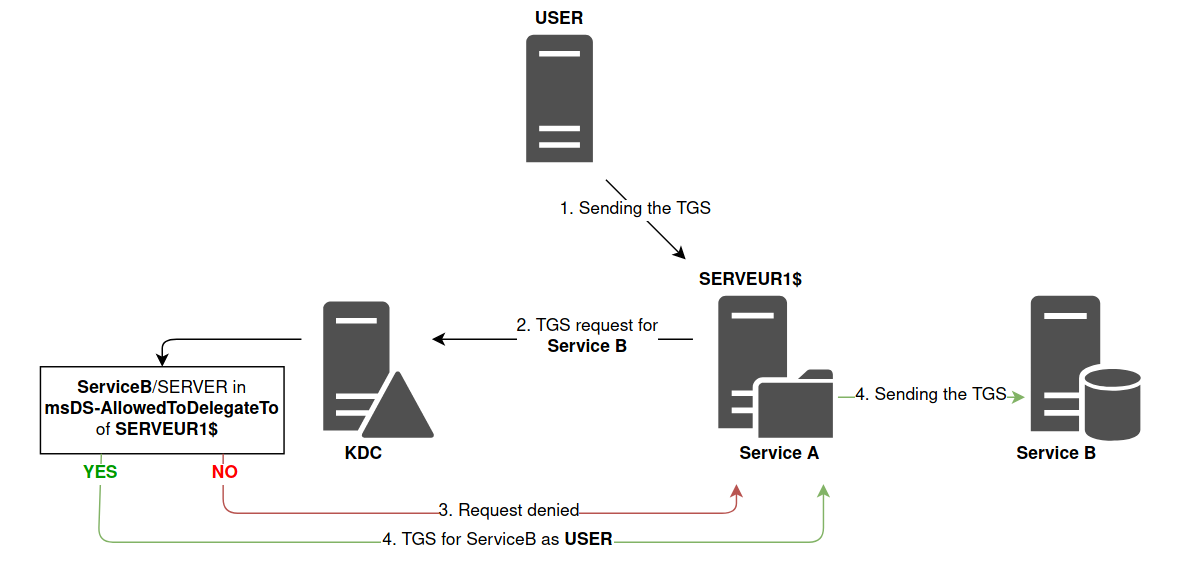
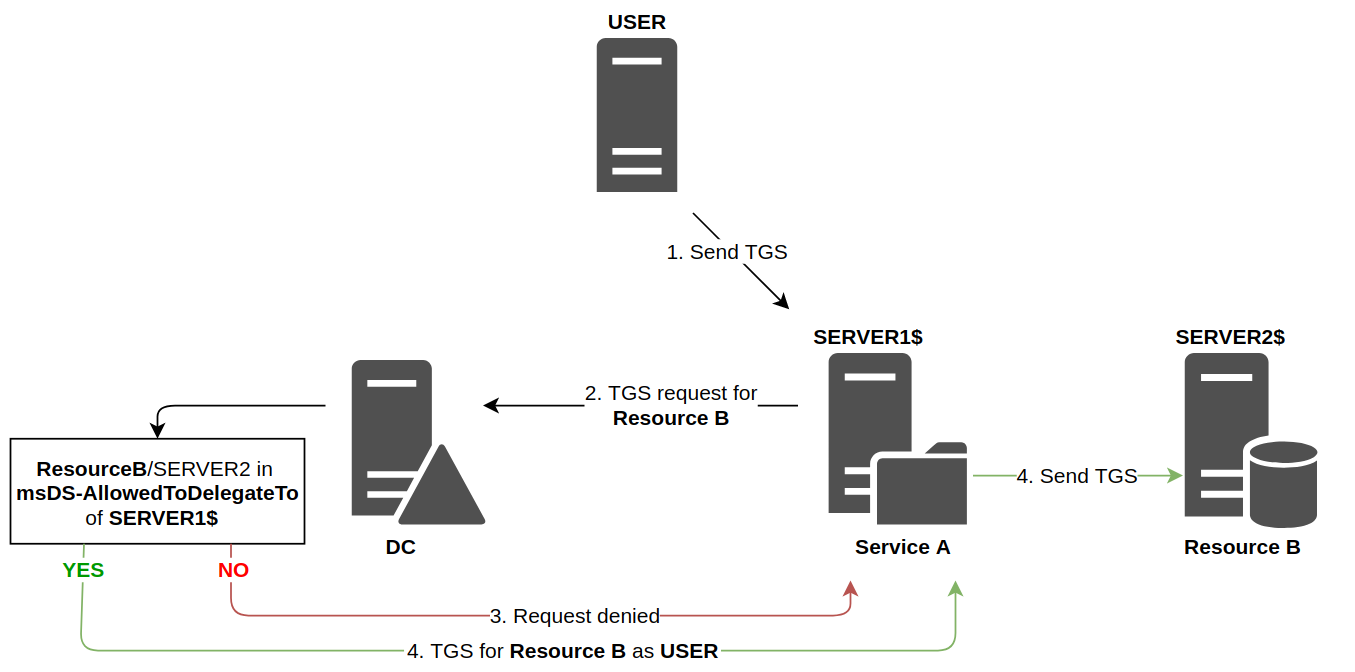
New article - Kerberos delegation

diff --git a/_posts/2019-03-30-unconstrained-delegation.md b/_posts/2019-03-30-unconstrained-delegation.md
@@ -1,0 +1,199 @@
+---
+title: "Kerberos Delegation"
+date: 2020-04-18 12:17:22
+author: "Pixis"
+layout: post
+permalink: /constrained-unconstrained-delegation/
+disqus_identifier: 0000-0000-0000-00ab
+cover: assets/uploads/2019/02/delegation_banner.png
+description: "Within an Active Directory, services can be used by users. Sometimes these services need to contact others, on behalf of the user, like a web service might need to contact a file server. In order to allow a service to access another service on behalf of the user, a solution has been implemented (introduced in Windows Server 2000) to meet this need : Kerberos Delegation."
+tags:
+  - "Active Directory"
+  - Windows
+translation:
+  - fr
+---
+
+Within an Active Directory, services can be used by users. Sometimes these services need to contact others, on behalf of the user, like a web service might need to contact a file server. In order to allow a service to access another service **on behalf of the user**, a solution has been implemented (introduced in Windows Server 2000) to meet this need : **Kerberos Delegation.**
+
+<!--more-->
+
+## Delegation principle
+
+In order to understand what is Kerberos Delegation, let's take a concrete example. A web server with a nice interface allows a user to access his personal folder, hosted on a file server. We are in the following situation :
+
+[![Actual state](/assets/uploads/2019/02/webfsuser.png)](/assets/uploads/2019/02/webfsuser.png)
+
+The web server is front-end, and it's this web server that will fetch the information instead of the user on the file server in order to display the content of a file, for example.
+
+However, the web server does not know what belongs to the user on the file server. It is not his role to unpack the user's [PAC](/kerberos-silver-golden-tickets/#pac) to make a specific demand to the file server. This is where the **delegation**  comes in. This mechanism allows the web server to **impersonate** the user, and to authenticate on the user's behalf to the file server. Thus, from the file server's point of view, it is the user who makes the request. The file server will be able to reand and check user's rightsr, then send back the information to which this account has access. This is how the web server can then display this information in a nice interface back to the user.
+
+[![Impersonation](/assets/uploads/2019/02/impersonation.png)](/assets/uploads/2019/02/impersonation.png)
+
+## Constrained & Unconstrained Delegation
+
+The ability to relay credentials can be given to an account with at least one [SPN](/service-principal-name-spn) attribute set. It could be a computer account or a service account.
+
+Today, there are three ways to authorize a computer or service account to impersonate a user in order to communicate with one or more other service(s) : **Unconstrained Delegation**, **Constrained Delegation** and **Resource Based Constrained Delegation**.
+
+### Unconstrained Delegation
+
+With **Unconstrained Delegation**, the server or the service account that is granted this right is able to impersonate a user to authenticate to **any services** on **any host**.
+
+[![Unconstrained Delegation](/assets/uploads/2019/02/unconstrained_delegation_schema.png)](/assets/uploads/2019/02/unconstrained_delegation_schema.png)
+
+Here is an example, in my lab, of a machine that is in **Unconstrained Delegation** :
+
+[![Unconstrained Delegation](/assets/uploads/2019/02/unconstrained_delegation.png)](/assets/uploads/2019/02/unconstrained_delegation.png)
+
+It is historically the only choice there was when the delegation principle was introduced. But for obvious security reason, **Constrained Delegation** has been added.
+
+### Constrained Delegation
+
+If a computer or a service account has the **Constrained Delegation** flag set, a list of authorized services shall be associated to this flag. For example, in previous example (web server and file server), the web server will have the **Constrained Delegation** flag indicating that this account can only impersonate some users against `CIFS` service hosted by `SERVER01`, the file server.
+
+[![Constrained Delegation](/assets/uploads/2019/02/constrained_delegation_schema.png)](/assets/uploads/2019/02/constrained_delegation_schema.png)
+
+This list of allowed SPN is set on the relaying account, the computer account hosting the web server.. 
+
+In other words, the Domain Controller will read the SPN list on this account, and will decide: "This account is allowed to impersonate a user, so he can authenticate against one of these services on behalf of the user".
+
+In my lab, the web server is `WEB-SERVER-01` and the one with file sharing is `WEB-SERVER-02`. So here is what the list of services for which `WEB-SERVER-01` can pretend  to be the user looks like :
+
+[![Delegation CIFS](/assets/uploads/2019/02/delegation_cifs.png)](/assets/uploads/2019/02/delegation_cifs.png)
+
+
+### Resource Based Constrained Delegation - RBCD
+
+Finally, we have the **Resource Based Constrained Delegation** (RBCD) case. Introduced with Windows Server 2012, this solution allows to overcome some problems related to the **Constrained Delegation** (Responsibility, inter-domains delegation, ...). Without going into too much details, the delegation responsibility is moved. Whereas in **Constrained Delegation**, it's the relaying server that holds the list of allowed target services, in the case of **Resource Based Constrained Delegation**, it's the resources (or services) that have a list of accounts they trust for delegation. Thus, the diagram is as follows :
+
+[![Resource Based Constrained Delegation](/assets/uploads/2019/02/resource_based_constrained_delegation_schema.png)](/assets/uploads/2019/02/resource_based_constrained_delegation_schema.png)
+
+The responsibility is shifted, it's at the level of the resource that receives the delegated authentications that the information of whether or not the delegation is accepted is found.
+
+In other words, it's the end resource that says "I allow this list of account [...] to authenticate to me on behalf of someone else".
+
+## Technical details
+
+Now that the high-level behavior is understood (at least I hope so), let's go into a little more detail about this process. Concretely, how can a machine or an account can pretend to be a user when using a resource ? That's what we are going to see now. Details between every different techniques are relatively different, that's why each of them will be explained separately. Stay close on your seat, it's gonna get dirty.
+
+### Unconstrained Delegation
+
+As seen before, in this case, the server or the service account can authenticate on behalf of the user to any other services. For this to be possible, two prerequisites are required :
+
+* The first one is that the account that wants to delegate an authentication has the `TRUSTED_FOR_DELEGATION` flag in his [UAC - User Account Control](https://docs.microsoft.com/en-us/windows/win32/adschema/a-useraccountcontrol?redirectedfrom=MSDN) flags. In order to set this flag, you need to have the `SeEnableDelegationPrivilege` right, which is usually only available for domain administrators. Here is how the flag is set on the account (machine or service account):
+
+[![Unconstrained Delegation](/assets/uploads/2019/02/unconstrained_delegation.png)](/assets/uploads/2019/02/unconstrained_delegation.png)
+
+Once set, we can list UAC flags and check that `TRUSTED_FOR_DELEGATION` has been set.
+
+[![Unconstrained Delegation UAC](/assets/uploads/2020/04/UAC_UD.png)](/assets/uploads/2020/04/UAC_UD.png)
+
+* The second one is that the user account which will be relayed is effectively "relayable". To **disable** relaying capabilities on an account, [NOT_DELEGATED](https://docs.microsoft.com/en-us/windows/desktop/api/iads/ne-iads-ads_user_flag) flag is set. By default, no account on the AD has this flag set, so they are all "relayable".
+
+[![Not delegated flag unset](/assets/uploads/2020/04/UAC_user_not_delegated.png)](/assets/uploads/2020/04/UAC_user_not_delegated.png)
+
+Concretely, during exchanges with the Domain Controller as described in the [Kerberos in Active Directory](/kerberos) article, when the user asks for a TGS ([KRB_TGS_REQ](/kerberos/#krb_tgs_req)), he will specify the [SPN](/service-principal-name-spn) of the service he wants to use. It is at this point that the Domain Controller will look for the two prerequisites :
+
+* Is the `TRUSTED_FOR_DELEGATION` flag set in the attributes of the account associated to the [SPN](/service-principal-name-spn).
+* Is the `NOT_DELEGATED` flag **not** set for the requesting user.
+
+If both prerequisites are met, then the Domain Controller will respond to the user with a [KRB_TGS_REQ](/kerberos/#krb_tgs_req) containing standard information, but it will also contains a **copy of the user's TGT** in his response, and a new associated session key.
+
+[![TGT Copy](/assets/uploads/2019/02/cop_tgt.png)](/assets/uploads/2019/02/cop_tgt.png)
+
+Once in possession of these elements, the user will continue the classic process by sending a request to the service ([KRB_AP_REQ](/kerberos/#krb_ap_req)) by sending the TGS and an authenticator. The service will be able to decrypt the content of the TGS, verify the user's identity by decrypting the authenticator, but above all it will be able to retrieve the copy of the TGT and the associated session key, in order to pretend to be the user at the Domain Controller.
+
+[![TGT Memory](/assets/uploads/2019/02/tgt_memory.png)](/assets/uploads/2019/02/tgt_memory.png)
+
+Now in possession of a copy of the user's TGT and a valid session key, the service can authenticate to any other service on the user's behalf by requesting the TGS from the Domain Controller, by providing this TGT and by encrypting an authenticator with the session key. It's the **Unconstrained Delegation** principle.
+
+Here is a summary diagram :
+
+[![Unconstrained Delegation Detailed](/assets/uploads/2019/02/unconstrained_delegation_detailed.png)](/assets/uploads/2019/02/unconstrained_delegation_detailed.png)
+
+
+### Constrained Delegation
+
+For the **Constrained Delegation**, a list of [SPN](/service-principal-name-spn) or of authorized accounts will be provided to indicate the services/accounts accepted for the delegation. Therefore, the process is not the same. The service involved will not be in possession of the user's TGT, otherwise there is no way to control service's authentication. A different mechanism is used.
+
+Let's consider the case where the user authenticate to `Service A` and then this `Service A` has to impersonate the user to access `Resource B`.
+
+The user makes a TGS request, then sends it to `Service A`. Since this service needs to access `Resource B` as the user, it will request a TGS to the Domain Controller on behalf of the user. This request is governed by the [S4U2Proxy](https://docs.microsoft.com/en-us/openspecs/windows_protocols/ms-sfu/bde93b0e-f3c9-4ddf-9f44-e1453be7af5a) extension. To tell the Domain Controller it wants to authenticate on behalf of someone else, two attributes will be defined in the [KRB_TGS_REQ](/kerberos/#krb_tgs_req) ticket request:
+
+* The field `additional-tickets`, usually empty, must contain the user's TGS (given that the `NOT_DELEGATED` flag is **not** set for the requesting user. If that was the case, the user's TGS would **not** be `forwardable`, and the Domain Controller would not accept it in the rest of the process)
+* The [cname-in-addl-tkt](https://docs.microsoft.com/en-us/openspecs/windows_protocols/ms-sfu/17b9af82-d45a-437d-a05c-79547fe969f5) flag, which should be set to indicate to the Domain Controller that it should not use the server information, but the ticket information in `additional-tickets`, i.e. the information of the user the server wants to pretend to be.
+
+It is during this request that the Domain Controller, upon seeing this information, will verify that `Service A` has the right to authenticate to `Resource B` on behalf of the user.
+
+#### Constrained Delegation - Classique
+
+In the classic **Constrained Delegation** case (when delegation information is located in `Service A`), this information is found in the [msDS-AllowedToDelegateTo](https://docs.microsoft.com/en-us/openspecs/windows_protocols/ms-ada2/86261ca1-154c-41fb-8e5f-c6446e77daaa) attribute **of the requesting account**, thus of `Service A`. This attribute specifies the list of authorized [SPN](/service-principal-name-spn) for the delegation.
+
+[![Delegation CIFS](/assets/uploads/2019/02/delegation_cifs.png)](/assets/uploads/2019/02/delegation_cifs.png)
+
+For example here the `msDS-AllowedToDelegateTo` attribute will contain `cifs/WEB-SERVER-02`.
+
+[![allowedToDelegateTo](/assets/uploads/2020/04/allowedToDelegateTo.png)](/assets/uploads/2020/04/allowedToDelegateTo.png)
+
+If the targeted [SPN](/service-principal-name-spn) is present, then the Domain Controller send back a valid TGS, with the name of the user, for the requested service. Here is a summary diagram :
+
+[![Constrained Delegation Detailed](/assets/uploads/2019/02/constrained_delegation_schema_detailed.png)](/assets/uploads/2019/02/constrained_delegation_schema_detailed.png)
+
+
+#### Constrained Delegation - Resource Based
+
+This time, the Domain Controller will look at the attributes of **Resource B** (instead of `Service A`). It will check that the account associated with `Service A` is present in the [msDS-AllowedToActOnBehalfOfOtherIdentity](https://docs.microsoft.com/en-us/openspecs/windows_protocols/ms-ada2/cea4ac11-a4b2-4f2d-84cc-aebb4a4ad405) attribute of the account linked to `Resource B`.
+
+In order to set up RBCD on a resource, we need to use powershell.
+
+[![Set RBCD](/assets/uploads/2020/04/set_rbcd.png)](/assets/uploads/2020/04/set_rbcd.png)
+
+`WEB-SERVER-01` is added to `WEB-SERVER-02` trusting list, so **msDS-AllowedToActOnBehalfOfOtherIdentity** is updated.
+
+Then, when a service wants to access a resource, here's how it works:
+
+[![Resource Based Constrained Delegation Detailed](/assets/uploads/2019/02/resource_based_constrained_delegation_schema_detailed.png)](/assets/uploads/2019/02/resource_based_constrained_delegation_schema_detailed.png)
+
+As the diagram shows, the technical functioning is similar to classic constrained delegation, however the responsibilities of each entity is radically different.
+
+### S4U2Self
+
+If you are still there and you are not lost, you should have noticed that we haven't touched on the notion of protocol transition in this article. Indeed, in the explanation of constrained delegation, we assumed that `Service A` had a service ticket coming from `USER`, which was added in the `additional-tickets` field of the TGS request (**S4U2Proxy**). But sometimes the user may authenticate to the server in other ways than the Kerberos protocol (e.g. via NTLM, or even a Web form). In this case, the server is not in possession of the TGS sent by the user. Thus, `Service A` cannot fill the `additional-tickets` field as it did in the case described above.
+
+That is why there is an extra step, possible through the [S4U2Self](https://docs.microsoft.com/en-us/openspecs/windows_protocols/ms-sfu/02636893-7a1f-4357-af9a-b672e3e3de13) extension, that `Service A` must perform. This step allows it to obtain a TGS for a user **arbitrarily chose**. To do this, it makes a classic TGS request ([KRB_TGS_REQ](/kerberos/#krb_tgs_req)) except that instead of putting his own name in the `PA-FOR-USER` block (present in the pre-authentication part), it puts the name of a user **it chooses**.
+
+This ability to manage **protocol transition** is accepted by the Domain Controller only if it has been explicitly granted to the service account wishing to manage this delegation. It is in delegation management tab that an administrator can choose a constrained delegation using Kerberos only, therefore without protocol transition, or using any protocol, thus allowing **protocol transition**.
+
+[![Protocol transition](/assets/uploads/2020/04/protocol_transition.png)](/assets/uploads/2020/04/protocol_transition.png)
+
+In the first case, the **TRUSTED_FOR_DELEGATION** flag is set on the account, and the service can only relay kerberos authentication. It cannot use the S4U2Self extension to create a ticket out of nowhere.
+
+In the second case, the **TRUSTED_TO_AUTHENTICATE_FOR_DELEGATION** flag is set. If this is the case, then the service with this flag **can pretend to be anyone** when accessing services in its list via the **S4U2Self** extension.
+
+This diagram is getting a little bit more complicated, but I hope it remains relatively clear.
+
+[![S4U2Self](/assets/uploads/2019/02/s4u2self.png)](/assets/uploads/2019/02/s4u2self.png)
+
+If such an account is compromised, then all services to which that account is entitled to authenticate via delegation will also be compromised, since the attacker can create service tickets on behalf of arbitrary users, such as administrators.
+
+## Conclusion
+
+I was thinking of doing an article that would describe kerberos delegation as well as associated attacks, however the explanations are much more dense than expected, so this article remains devoted to explanation. Associated attacks will be presented in other articles.
+
+To sum up, there are three types of delegation:
+
+1. **Unconstrained delegation**: In this case, the client sends a copy of his TGT to a service, and that service uses it to impersonate the client to any other service. Only an administrator can set this option on an account.
+2. **Constrained delegation**: A list of resources is set on the service that wishes to delegate authentication. If **protocol transition** is allowed, then the service can pretend to be anyone when accessing resources in its list. In any case, only an administrator can set this option.
+3. **Resource-based Constraint Delegation**: The final resource has a list of trusted accounts. All accounts in this list can delegate authentication when accessing the resource. Resources can modify this list as they wish, they don't need an administrator to update it.
+
+If you have any questions or suggestions, do not hesitate, I'm all ears.
+
+## Resources
+
+Big thanks to them for their clear explanations.
+
+* [S4U2Pwnage - Harmj0y](https://www.harmj0y.net/blog/activedirectory/s4u2pwnage/)
+* [ADSecurity - Pyrotek3](http://adsecurity.org/)
+* [Secrets d’authentification épisode II Kerberos contre-attaque - Aurélien Bordes](https://www.sstic.org/media/SSTIC2014/SSTIC-actes/secrets_dauthentification_pisode_ii__kerberos_cont/SSTIC2014-Article-secrets_dauthentification_pisode_ii__kerberos_contre-attaque-bordes_2.pdf)
+* [Wagging the dog - Edla Shamir](https://shenaniganslabs.io/2019/01/28/Wagging-the-Dog.html)
